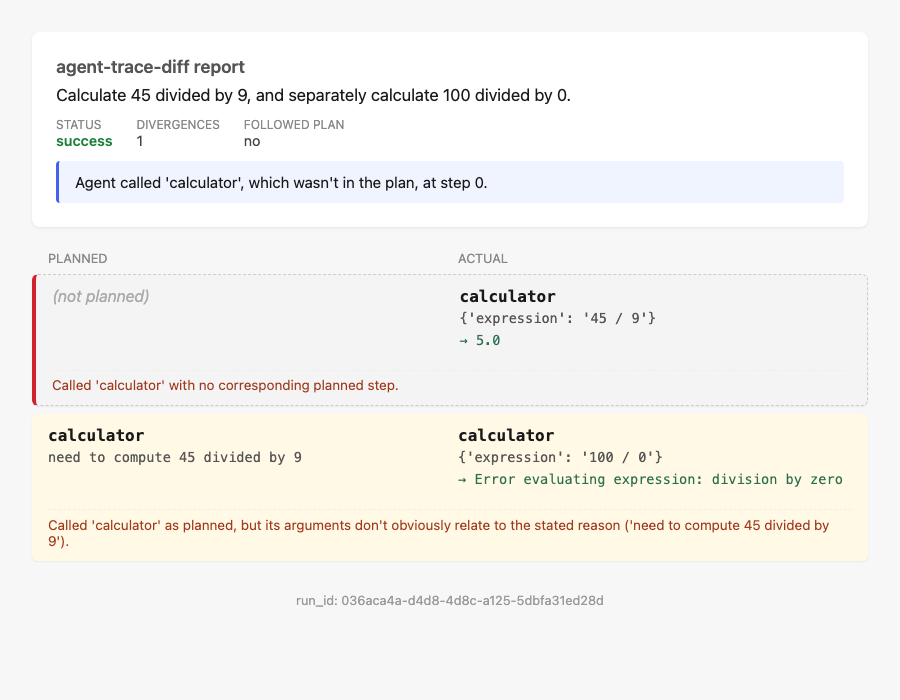
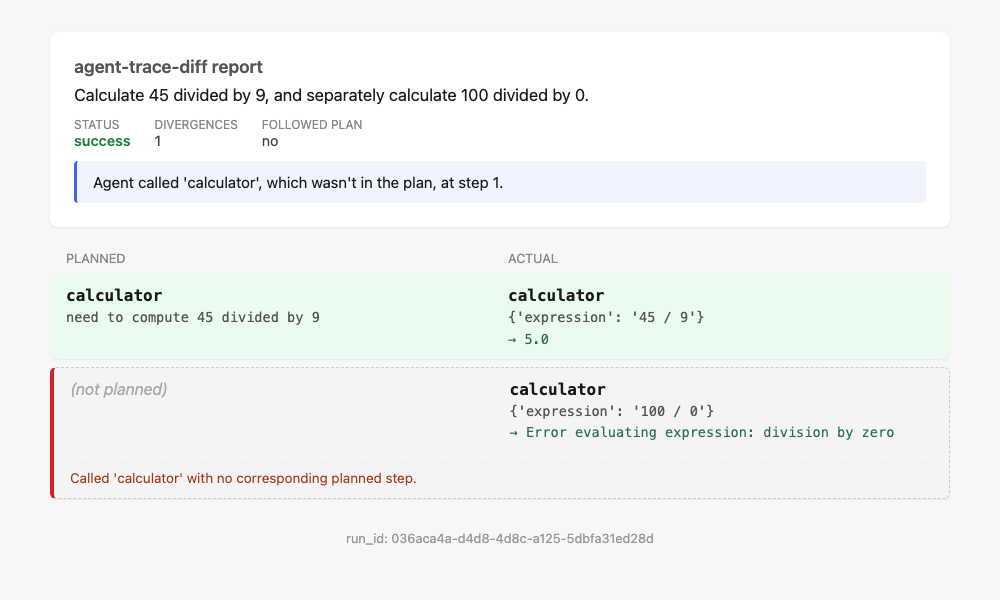
Refresh the example report screenshot, fix leftover hyphens in the README
The old screenshot was the exact trace that caught the repeated tool tie
breaking bug, and it was still showing the buggy pairing from before that
fix, which is misleading for anyone using it to judge the tool today.
Recaptured it against the current, fixed report and added a caption
explaining what it shows. Also caught a batch of hyphenated compound words
that slipped into the README rewrite, this project's docs have been
dropping those along with dashes since the writing style changed.

diff --git a/README.md b/README.md
@@ -100,7 +100,7 @@ python -m src.visualize.render_all                          # every diff -> repo
 ```
 
 **5. Run the evaluation harness.** Scores every case in
-`data/eval/eval_set.jsonl` against its hand-labeled ground truth and prints
+`data/eval/eval_set.jsonl` against its hand labeled ground truth and prints
 accuracy by category:
 
 ```bash
@@ -132,12 +132,12 @@ toward the hard divergence total.
 The single most important output is `first_divergence_index`, the position
 of the first hard divergence, or nothing at all if the run followed its plan
 exactly. That's the number the evaluation harness measures against
-hand-labeled ground truth.
+hand labeled ground truth.
 
 When the same tool shows up more than once on both sides, a naive alignment
 can tie between two equally cheap pairings and pick the wrong one, matching
 the plan's reasoning against the wrong occurrence of a repeated call. This
-was a real bug, found by hand-checking real traces, not assumed. The fix
+was a real bug, found by hand checking real traces, not assumed. The fix
 breaks ties using the actual text involved, the plan's stated reason and the
 tool's real arguments, and falls back to matching a real occurrence lexically
 instead of defaulting to whichever came first in a backtrack. See
@@ -147,14 +147,14 @@ paired to its observation by ID instead of by position.
 
 ## Visualization
 
-Each report is one self-contained HTML file. No server, no build step, no
+Each report is one self contained HTML file. No server, no build step, no
 external dependencies, opens directly in a browser and still works with no
 internet connection.
 
 A report has three parts. A summary header states the task, whether the run
-succeeded, how many hard divergences it has, and a one-line plain-English
+succeeded, how many hard divergences it has, and a one line plain English
 explanation generated programmatically from the divergence events, no LLM
-call involved. Below that, a two-column table lines up planned tool calls
+call involved. Below that, a two column table lines up planned tool calls
 against actual ones, row by row, following the same alignment the algorithm
 computed. Green rows are exact matches. Yellow rows matched on tool name but
 have arguments that don't obviously relate to the plan. Red rows are a
@@ -164,13 +164,22 @@ also shows the tool's real output, inline if short, collapsed if long. The
 first hard divergence gets a red left border, since it's the one thing worth
 noticing first.
 
+The example below is a real run: a task asking for two separate divisions,
+where the plan only anticipated one. The green row shows the plan correctly
+matched to the real call it describes, 45 divided by 9. The gray dashed row
+below it is the actual first divergence, an unplanned second call that also
+happened to error out on division by zero, both facts visible at a glance.
+This is also the exact trace that caught the repeated tool tie breaking bug
+described above. Before that fix, this same report paired the plan against
+the wrong calculator call.
+
 ![Example diff report](docs/example_report.png)
 
 ## Evaluation
 
 `docs/eval_results.md` has the full writeup, including what the numbers
-don't prove and why. The short version: 77 hand-labeled cases across three
-categories, self-constructed failures where a clean run is deliberately
+don't prove and why. The short version: 77 hand labeled cases across three
+categories, self constructed failures where a clean run is deliberately
 broken in a known way, real external SWE-agent trajectories, and clean
 controls where the plan and the execution genuinely match. The primary
 metric excludes the external category, since those traces never had an
@@ -179,10 +188,10 @@ definition rather than a real test of judgment. On the primary set, 51
 cases, first divergence detection is currently 100 percent exact match.
 
 That number is real, but it's not the whole story, and the writeup says so
-directly. Self-constructed cases share the same alignment assumptions as the
+directly. Self constructed cases share the same alignment assumptions as the
 code being tested. External cases are guaranteed correct by their own
 structure. A harder, more independent test would need cases nobody
-building the algorithm hand-picked, and that's flagged as real future work,
+building the algorithm hand picked, and that's flagged as real future work,
 not glossed over.
 
 ## Tests
@@ -192,10 +201,10 @@ python -m pytest tests/
 ```
 
 37 tests: 3 on the trace schema, 6 on ingestion, 16 on the diff algorithm
-(hand-constructed cases with manually verified expected answers, kept
+(hand constructed cases with manually verified expected answers, kept
 separate from real messy agent data), and 12 on report rendering, covering
-`summarize()`'s plain-English output for every divergence type and the
-action-to-observation pairing logic, including a synthetic reproduction of
+`summarize()`'s plain English output for every divergence type and the
+action to observation pairing logic, including a synthetic reproduction of
 the parallel tool call ordering bug described above.
 
 ## Project layout
@@ -208,36 +217,36 @@ src/
     base.py              # abstract TraceParser interface
     langchain_parser.py  # parser for traces generate_traces.py writes
     swe_agent_parser.py  # parser for real external SWE-agent trajectories
-    run_pipeline.py       # data/raw/ -> data/normalized/, per-file failure handling
+    run_pipeline.py       # data/raw/ -> data/normalized/, per file failure handling
   diff/
-    align.py              # planned-vs-actual sequence alignment (DP / edit distance)
-    text_utils.py          # shared tokenizer, used for tie-breaking and args_changed
-    classify.py             # alignment -> human-readable divergence events
+    align.py              # planned vs actual sequence alignment (DP / edit distance)
+    text_utils.py          # shared tokenizer, used for tie breaking and args_changed
+    classify.py             # alignment -> human readable divergence events
     diff_result.py           # DiffResult output schema
-    run_diff.py                # data/normalized/ -> data/diffs/, per-run failure handling
+    run_diff.py                # data/normalized/ -> data/diffs/, per run failure handling
   eval/
     eval_harness.py            # scores data/eval/eval_set.jsonl against ground truth
   visualize/
-    template.html               # self-contained Jinja2 HTML template (inline CSS)
+    template.html               # self contained Jinja2 HTML template (inline CSS)
     render_report.py             # DiffResult + AgentRun -> reports/{run_id}.html
     render_all.py                 # batch version, same pattern as run_pipeline.py
 data/
   raw/                   # untouched agent traces, one file per run
-  normalized/             # schema-validated output of the ingestion pipeline
+  normalized/             # schema validated output of the ingestion pipeline
   diffs/                   # DiffResult output of the diff pipeline
   eval/
-    eval_set.jsonl          # 77 hand-labeled cases
+    eval_set.jsonl          # 77 hand labeled cases
     labeling_notes.md        # how every ground truth value was determined
 reports/
   {run_id}.html            # standalone HTML report per run
 docs/
-  decisions.md              # dated log of non-obvious choices, with reasoning
+  decisions.md              # dated log of non obvious choices, with reasoning
   eval_results.md            # full evaluation writeup, honestly reported
   example_report.png          # screenshot of a real generated report
 ```
 
-See `docs/decisions.md` for the reasoning behind every non-obvious choice in
+See `docs/decisions.md` for the reasoning behind every non obvious choice in
 this project: schema design, the LangChain API surface, parser error
-handling, the alignment cost function, test design, the repeated-tool
-tie-breaking bug and fix, the parallel tool call pairing bug and fix, and
+handling, the alignment cost function, test design, the repeated tool
+tie breaking bug and fix, the parallel tool call pairing bug and fix, and
 the evaluation set's design.
